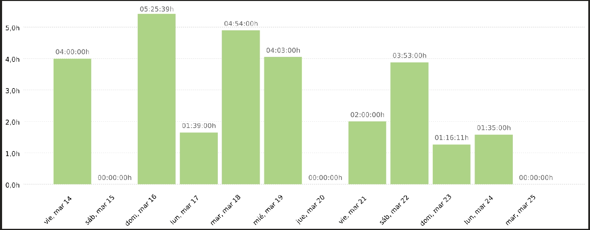
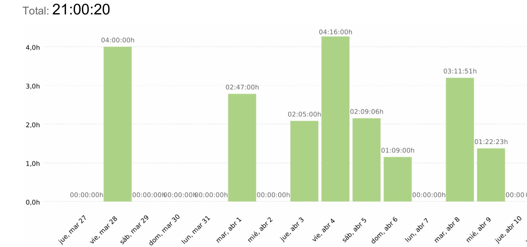
docs(sprint3): timeReport and IAusage sprint 3 clacorcar

diff --git a/docs/Sprint_3/AIusage.md b/docs/Sprint_3/AIusage.md
@@ -127,12 +127,12 @@ Listar los prompts que fueron más efectivos para completar las tareas:
 #### 1. Información General
 
 - **Nombre del programador:** Claudio Cortés Carrasco
-- **Sprint:** Sprint2
+- **Sprint:** Sprint3
 - **Rol en el proyecto:** Programador backend, documentación
 
 #### 2. Tipo de Tareas en las que se Utilizó IA
 
-- Generación de código (x)
+- Generación de código ()
 - Refactorización de código ( )
 - Generación de documentación ( )
 - Asesoramiento técnico (x)
@@ -143,27 +143,27 @@ Para cada tarea en la que se usó IA, completar la siguiente tabla:
 
 | Tarea | Herramienta utilizada | Descripción del uso de IA |
 |-------|-----------------------|---------------------------|
-| Mejora de tests |    ChatGPT | Recibiendo el código de las distintas entidades y los respectivos test básicos se pidío que se mejorasen para que abarcasen todas las posibilidades. |
-| Ayuda para generar gráficos |                ChatGPT | Se usó para saber como generar unos gráficos de barras desde el powerpoint para añadirlo a la presentación semanal. |
-| Ayuda para solucionar un error en los tests |                ChatGPT | Se usó para saber como solucionar un error que no asignaba correctamente el hotelOwner al usuario que se registraba. |
+| Ayuda para uso excel para grafos |    ChatGPT | Se utilizo para ayudarnos al tema de generar lineas entre 2 puntos para ver la evolucion de horas y rendimiento de una semana a otra. |
+| Ayuda para pensar en merchandising y temas de inversores |                ChatGPT | Se usó para dar ideas en temas de posibles merchandising de pawtel y para explicarnos temas relacionados con la inversión para cambiar el storyboard de los inversores|
+
 
 
 #### 4. Impacto en Productividad
 
-- **Horas estimadas ahorradas en comparación con trabajo manual:** 4
-- **Comparación con trabajo sin IA:** La ayuda que me dió la IA para mejorar y ampliar los tests me ahorró mucho tiempo, asi como solucionar el error que me daba de asignación de hotelOwner al AppUser ya que me lleve un rato intentando solucionarlo y no lo conseguía.
+- **Horas estimadas ahorradas en comparación con trabajo manual:** 2.5 horas
+- **Comparación con trabajo sin IA:** La ayuda que me dió la IA para generarme ideas para el tema de marketing y para ayudarme con el tema de las graficas para la presentación fue vital ya que sin esa ayuda me hubiese llevado bastante mas tiempo el poder llevar a cabo dichas tareas.
 
 #### 5. Prompts Utilizados
 
 Listar los prompts que fueron más efectivos para completar las tareas:
 
-1. Dados los siguientes archivos de tests y sus entidades asociadas, mejoralos para que abarquen el 100% de los casos posibles tanto en casos positivos como negativos.
-2. Podrias ayudarme a generar un gráfico de barras desde una presentación de powerpoint.
-3. Dado el problema que te paso por captura, podrías ayudarme a identificar cual es el problema en la asignación del hotelOwner al AppUser?
+1. Quiero hacer que la grafica de rendimiento y horas, en cada uno de los 2 puntos pertenecientes a cada estudiante, que haya una linea que los una para saber que esos 2 puntos son la evolucion horas/rendimiento de cada uno de los estudiantes, dime como hacer esto.
+2. Podrias darme ideas para merchandising para mi negocio de reserva de alojamiento para mascotas.
+3. Como funciona el tema de la inversión y el porcentaje que se le da al inversor y como se calcula el beneficio que se le da a este inversor con lo generado en mi empresa. ¿Podrías guiarme un poco?.
 
 #### 6. Problemas Encontrados y Limitaciones
 
-- **Limitaciones detectadas en la IA:** Solo te deja insertar una cantidad limitada de archivos y a veces te genera test con datos repetidos.
+- **Limitaciones detectadas en la IA:** Solo te deja insertar una cantidad limitada de archivos.
 
 
 #### 7. Evaluación General

diff --git a/docs/Sprint_3/timeEffortReport.md b/docs/Sprint_3/timeEffortReport.md
@@ -443,18 +443,17 @@
 
 | Descripción | Duración |
 |-------------|---------|
-| Clases | 06:00:00 |
-| Feature: Creación bookings | 05:02:39 |
-| Fix: arreglar bookings | 00:23:00 |
-| fix: arreglar tests bookings | 00:49:00 |
-| feat: crear metodos de getAllBokings por customer y hotel mas sus tests | 03:15:00 |
-| feat: crear room_type_is_available method and tests | 02:29:00 |
-| feat: crear metodos para obtener bookings por hotel y por customer. | 04:17:00 |
-| task: revisar documentación Api automática | 02:23:00 |
-| revisar frontend | 01:02:00 |
-| feat: añadir atributo is_approved a hotel_owner | 01:49:11 |
-| presentación diapositivas | 00:41:00 |
-| Reporte de IA y de tiempo| 00:35:00 |
+| Clases | 08:00:00 |
+| Presentación Diapositivas | 01:22:00 |
+| Video anuncio y diapositivas y guión | 01:25:00 |
+| Presentación | 02:05:00 |
+| Hacer documento feedback ispp | 00:16:00 |
+| Añadir ruta de listado de hotel owner no validados y otra ruta para borrar hotel owner no validados | 02:09:06 |
+| cambiar metodo de borrar hotel owner no validados por consistencia| 01:09:00 |
+| graficas rendimiento y correciones varias | 01:45:09 |
+| planificación marketing | 01:26:42 |
+| presentación diapositivas y cambio storyboards| 01:22:23 |
+|
 
 ![grafico-de-tiempos](graficas/claudio.png)
 ---
